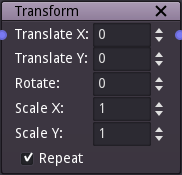
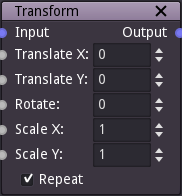
Updated Transform, added Decompose and minor changes
Updated Transform so it accepts a greyscale input per parameter. For each pixel, the parameter is multiplied by 2*v-1 (v being the value of the input's pixel) which makes it possible to affect the strength of each transform using an input image. New effects such as whirl and color guided offsets are now possible.

Added Decompose node (does the opposite of combine).

Used another color for inputs/outputs that expect/generate a greyscale image.

diff --git a/doc/node_transform.rst b/doc/node_transform.rst
@@ -8,7 +8,13 @@ The transform node applies a scale operation, a rotation and a translation to th
 Inputs
 ++++++
 
-The transform node accepts a single image as input.
+The transform node accepts a color image as input.
+
+It also accepts a greyscale input image for each transform parameter. In that case,
+instead of applying a uniform transform to the input image, the transform parameter
+will, for each pixel, be multiplied by a value from -1 to 1 that depends linearly
+on the corresponding greyscale input image (a black pixel will multiply the parameter
+by -1, a white pixel will not change the parameter, a grey50 pixel will set it to 0).
 
 Outputs
 +++++++

diff --git a/doc/node_combine.rst b/doc/node_combine.rst
@@ -1,14 +1,14 @@
 Combine node
 ~~~~~~~~~~~~
 
-The combine three greyscale inputs into a color output texture.
+The combine node combines three greyscale inputs into a color output texture.
 
 .. image:: images/node_combine.png
 
 Inputs
 ++++++
 
-The combine node has 3 inputs, one for each (read, green and blue) channel.
+The combine node has 3 inputs, one for each (red, green and blue) channel.
 
 Outputs
 +++++++

diff --git a/doc/node_decompose.rst b/doc/node_decompose.rst
@@ -1,0 +1,16 @@
+Decompose node
+~~~~~~~~~~~~~~
+
+The decompose node decomposes a color input into three greyscale outputs.
+
+.. image:: images/node_decompose.png
+
+Inputs
+++++++
+
+The decompose node has a single color input.
+
+Outputs
++++++++
+
+The decompose node outputs 3 greyscale images, one for each (red, green and blue) channel.

diff --git a/doc/nodes_filters.rst b/doc/nodes_filters.rst
@@ -9,6 +9,7 @@ The generator nodes are nodes that do not accept any input and generate one or s
 	node_blend
 	node_blur
 	node_combine
+	node_decompose
 	node_emboss
 	node_normal_map
 	node_transform
